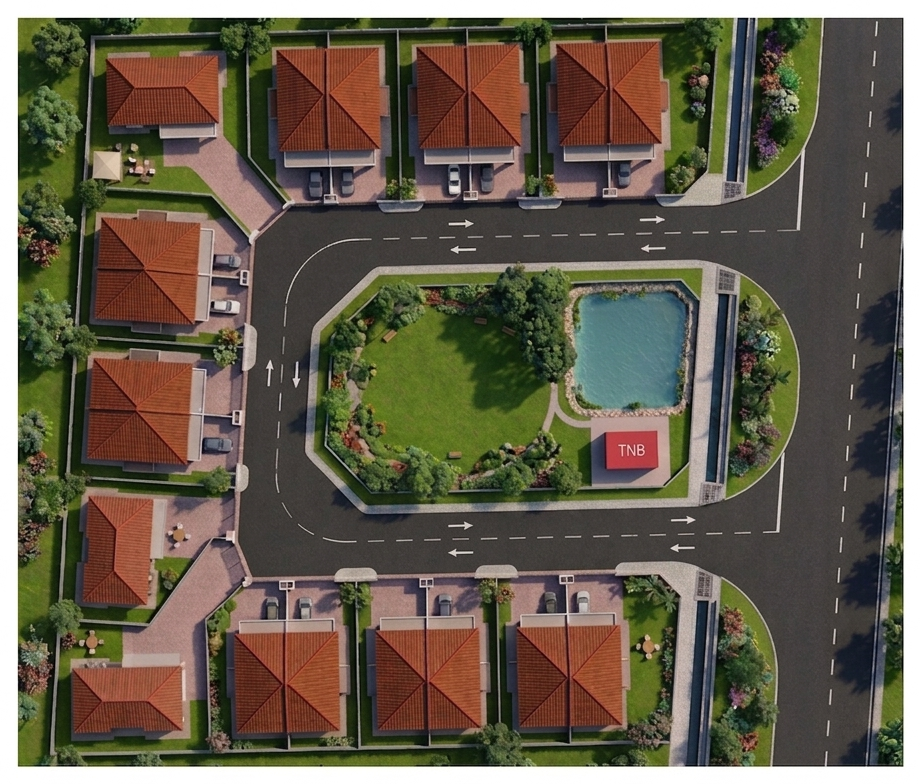
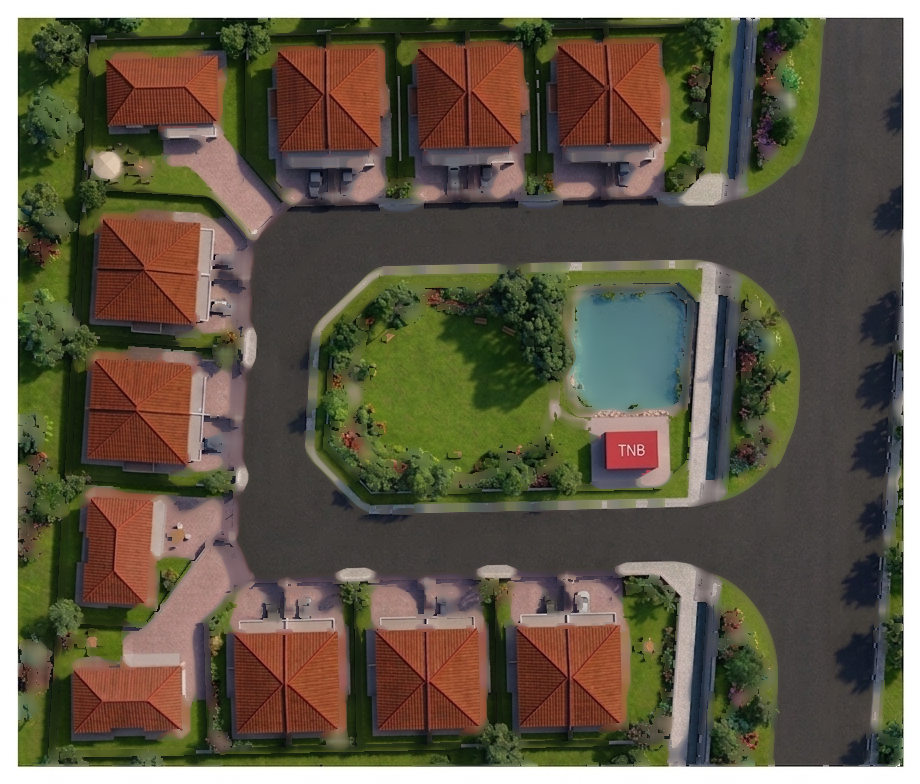
Impressive pass: aerial-led hero, kill dead space, clean aerial, visible topo
Hero now leads with the estate aerial render (split: headline+CTAs left, big aerial right, spec strip full-width below) instead of text on blank paper. Removed the duplicate aerial from the Estate section (moved #site anchor onto the notes). Tightened section padding (clamp 80-160 to 52-96), header margins and philosophy rows site-wide. Painted the white road-direction arrows and lane dividers off the aerial render (PIL median-fill). Boosted topo-flow contour opacity so the background reads; removed the floating pencil spot-marks. Aerial preloaded as LCP.

diff --git a/index.html b/index.html
@@ -46,6 +46,7 @@
 <meta name="twitter:image:alt" content="Panthera Bertam, bungalow artist's impression">
 
 <!-- Performance: preload critical above-the-fold assets -->
+<link rel="preload" as="image" href="assets/site-render-aerial.png?v=5" fetchpriority="high">
 <link rel="preload" as="image" href="assets/panthera-logo-full.png">
 
 <!-- Fonts -->
@@ -57,7 +58,7 @@
 <link rel="stylesheet" href="https://unpkg.com/leaflet@1.9.4/dist/leaflet.css" integrity="sha256-p4NxAoJBhIIN+hmNHrzRCf9tD/miZyoHS5obTRR9BMY=" crossorigin="">
 <script src="https://unpkg.com/leaflet@1.9.4/dist/leaflet.js" integrity="sha256-20nQCchB9co0qIjJZRGuk2/Z9VM+kNiyxNV1lvTlZBo=" crossorigin="" defer></script>
 
-<link rel="stylesheet" href="styles.css?v=70">
+<link rel="stylesheet" href="styles.css?v=71">
 
 <!-- Structured data for Google rich results -->
 <script type="application/ld+json">
@@ -296,32 +297,39 @@
 <!-- ─── HERO ──────────────────────────────────── -->
 <section class="hero hero--paper" data-screen-label="01 Hero">
   <div class="wrap hero-inner">
-    <div class="hero-copy" data-reveal>
-      <div class="eyebrow" data-i18n="hero.eyebrow">Pre-launch · Bertam, Seberang Perai Utara</div>
-      <h1 class="display">
-        <span data-i18n="hero.h1.a">Every home</span><br>
-        <span class="terra-mark" data-i18n="hero.h1.b">opens to the green.</span>
-      </h1>
-      <p class="lede" data-i18n="hero.lede">An intimate enclave of nineteen freehold homes, all facing a shared green of more than 700 m². Floor-to-ceiling glass and full-width sliding doors fold the park into the living room. A calm, private address on the mainland's quiet edge, just as it begins to rise.</p>
+    <div class="hero-split">
+      <div class="hero-copy" data-reveal>
+        <div class="eyebrow" data-i18n="hero.eyebrow">Pre-launch · Bertam, Seberang Perai Utara</div>
+        <h1 class="display">
+          <span data-i18n="hero.h1.a">Every home</span><br>
+          <span class="terra-mark" data-i18n="hero.h1.b">opens to the green.</span>
+        </h1>
+        <p class="lede" data-i18n="hero.lede">An intimate enclave of nineteen freehold homes, all facing a shared green of more than 700 m². Floor-to-ceiling glass and full-width sliding doors fold the park into the living room. A calm, private address on the mainland's quiet edge, just as it begins to rise.</p>
 
-      <div class="hero-cta">
-        <a href="#register" class="btn btn-primary">
-          <span data-i18n="hero.cta.primary">Register your interest</span>
-          <span class="arrow" aria-hidden="true">→</span>
-        </a>
-        <a href="https://wa.me/60175981858?text=Hi%20Panthera%20Bertam%2C%20I'd%20like%20to%20know%20more." target="_blank" rel="noopener" class="btn btn-wa">
-          <span data-i18n="hero.cta.wa">WhatsApp Sales</span>
-          <span class="arrow" aria-hidden="true">↗</span>
-        </a>
+        <div class="hero-cta">
+          <a href="#register" class="btn btn-primary">
+            <span data-i18n="hero.cta.primary">Register your interest</span>
+            <span class="arrow" aria-hidden="true">→</span>
+          </a>
+          <a href="https://wa.me/60175981858?text=Hi%20Panthera%20Bertam%2C%20I'd%20like%20to%20know%20more." target="_blank" rel="noopener" class="btn btn-wa">
+            <span data-i18n="hero.cta.wa">WhatsApp Sales</span>
+            <span class="arrow" aria-hidden="true">↗</span>
+          </a>
+        </div>
       </div>
 
-      <ul class="hero-specs" aria-label="At a glance">
-        <li><span class="v" data-i18n="hero.f1.v">RM 610k</span><span class="k" data-i18n="hero.f1.k">from</span></li>
-        <li><span class="v" data-i18n="hero.f2.v">Freehold</span><span class="k" data-i18n="hero.f2.k">tenure</span></li>
-        <li><span class="v" data-i18n="hero.f3.v">19</span><span class="k" data-i18n="hero.f3.k">homes</span></li>
-        <li><span class="v" data-i18n="hero.f4.v">5 min</span><span class="k" data-i18n="hero.f4.k">to Tech Park</span></li>
-      </ul>
+      <figure class="hero-art" data-reveal>
+        <img src="assets/site-render-aerial.png?v=5" alt="Aerial view of Panthera Bertam, nineteen homes around the shared central green and pond" fetchpriority="high">
+        <figcaption class="mono" data-i18n="site.aerial.l">Artist's impression · aerial view from north</figcaption>
+      </figure>
     </div>
+
+    <ul class="hero-specs" aria-label="At a glance">
+      <li><span class="v" data-i18n="hero.f1.v">RM 610k</span><span class="k" data-i18n="hero.f1.k">from</span></li>
+      <li><span class="v" data-i18n="hero.f2.v">Freehold</span><span class="k" data-i18n="hero.f2.k">tenure</span></li>
+      <li><span class="v" data-i18n="hero.f3.v">19</span><span class="k" data-i18n="hero.f3.k">homes</span></li>
+      <li><span class="v" data-i18n="hero.f4.v">5 min</span><span class="k" data-i18n="hero.f4.k">to Tech Park</span></li>
+    </ul>
   </div>
 </section>
 
@@ -360,16 +368,7 @@
       </div>
     </div>
 
-    <!-- Site plan, folded into the estate story as one continuous flow -->
-    <figure class="site-aerial estate-aerial" id="site" data-reveal>
-      <img src="assets/site-render-aerial.png?v=4" alt="Panthera Bertam, aerial view of the estate with 19 homes around the central green and pond" loading="lazy">
-      <figcaption>
-        <span data-i18n="site.aerial.l">Artist's impression · aerial view from north</span>
-        <span data-i18n="site.aerial.r">19 homes · over 700 m² central green · 298 m² retention pond</span>
-      </figcaption>
-    </figure>
-
-    <div class="site-grid site-grid--notes-only">
+    <div class="site-grid site-grid--notes-only" id="site">
       <div class="site-notes" data-reveal>
         <div class="note">
           <div class="h" data-i18n="site.note1.h">Central green</div>
@@ -1417,6 +1416,6 @@
 </div>
 
 <script src="app.js?v=67"></script>
-<script src="topo-flow.js?v=1"></script>
+<script src="topo-flow.js?v=2"></script>
 </body>
 </html>

diff --git a/styles.css b/styles.css
@@ -241,7 +241,7 @@ input, textarea, select { font: inherit; color: inherit; }
 }
 section{ position: relative; }
 .section{
-  padding: clamp(80px, 10vw, 160px) 0;
+  padding: clamp(52px, 6vw, 96px) 0;
   border-top: 1px solid var(--rule-soft);
 }
 
@@ -304,7 +304,7 @@ section{ position: relative; }
 
 .hd{
   display: flex; align-items: baseline; justify-content: space-between;
-  gap: 24px; margin-bottom: clamp(40px, 5vw, 72px);
+  gap: 24px; margin-bottom: clamp(22px, 2.6vw, 40px);
   border-bottom: 1px solid var(--rule-soft);
   padding-bottom: 18px;
   flex-wrap: wrap;
@@ -540,34 +540,36 @@ footer{ padding-bottom: 60px; }
 .btn-cream{ background: var(--cream); color: var(--ink); }
 .btn-cream:hover{ background: white; }
 
-/* ── Hero ────────────────────────────────────── */
-/* Drafting-sheet hero: the live paper + moving contours show through; the
-   headline and a spec strip sit on it. */
+/* ── Hero (the estate aerial leads) ──────────── */
 .hero{
   position: relative; overflow: hidden;
-  min-height: min(86vh, 820px);
-  display: flex; align-items: center;
-  padding: clamp(96px, 14vh, 160px) 0 clamp(56px, 8vw, 110px);
+  padding: clamp(60px, 8vh, 104px) 0 clamp(40px, 5vw, 72px);
 }
 .hero-inner{ position: relative; z-index: 2; width: 100%; }
-.hero-copy{ max-width: 760px; }
-/* a faint pencil registration bracket at the sheet's top-left, drawn in CSS */
-.hero::before{
-  content: ""; position: absolute; z-index: 1; pointer-events: none;
-  left: calc(var(--gutter) - 18px); top: clamp(72px, 11vh, 128px);
-  width: 26px; height: 26px;
-  border-left: 1px solid rgba(40,33,28,0.32);
-  border-top: 1px solid rgba(40,33,28,0.32);
+.hero-split{
+  display: grid; grid-template-columns: 1.02fr 0.98fr;
+  gap: clamp(32px, 4.5vw, 76px); align-items: center;
+}
+.hero-copy{ max-width: 620px; }
+.hero-art{ margin: 0; position: relative; }
+.hero-art img{
+  width: 100%; height: auto; display: block;
+  border-radius: 6px; border: 1px solid var(--rule-soft);
+  box-shadow: 0 34px 74px -34px rgba(28,23,20,0.5);
+}
+.hero-art figcaption{
+  margin-top: 12px;
+  font-size: 10px; letter-spacing: 0.2em; text-transform: uppercase;
+  color: var(--text-mute);
 }
 .hero-specs{
-  list-style: none; margin: clamp(36px, 5vw, 56px) 0 0; padding: 16px 0 0;
+  list-style: none; margin: clamp(34px, 4.5vw, 54px) 0 0; padding: 18px 0 0;
   display: flex; flex-wrap: wrap; gap: 0;
   border-top: 1px solid var(--rule);
-  max-width: 680px;
 }
 .hero-specs li{
   display: flex; flex-direction: column; gap: 3px;
-  padding: 4px 28px 4px 0; margin-right: 28px;
+  padding: 4px 36px 4px 0; margin-right: 36px;
   border-right: 1px solid var(--rule-soft);
 }
 .hero-specs li:last-child{ border-right: 0; margin-right: 0; }
@@ -579,8 +581,11 @@ footer{ padding-bottom: 60px; }
   font-family: var(--mono); font-size: 10px; letter-spacing: 0.18em;
   text-transform: uppercase; color: var(--text-mute);
 }
+@media (max-width: 900px){
+  .hero-split{ grid-template-columns: 1fr; gap: clamp(28px, 5vw, 40px); }
+  .hero-copy{ max-width: none; }
+}
 @media (max-width: 720px){
-  .hero{ min-height: 78vh; }
   .hero-specs li{ padding-right: 18px; margin-right: 18px; }
 }
 
@@ -3851,8 +3856,8 @@ body:not(.lang-zh) .zh-only-inline{ display: none; }
 .phil-row{
   display: grid;
   grid-template-columns: 1.1fr 1fr;
-  gap: 60px;
-  padding: 48px 0;
+  gap: 48px;
+  padding: 32px 0;
   border-bottom: 1px solid var(--rule-soft);
   align-items: start;
 }

diff --git a/topo-flow.js b/topo-flow.js
@@ -203,14 +203,13 @@
     for (var i = 0; i < LEVELS.length; i++) {
       var lv = LEVELS[i];
       var emphasis = (i % 3 === 0);                 // every 3rd = index line
-      g.lineWidth = emphasis ? 1.25 : 0.85;
+      g.lineWidth = emphasis ? 1.5 : 1.0;
       var near = 1 - Math.min(Math.abs(lv) / 1.9, 1);
       var col = emphasis ? TERRA : INK;
-      var alpha = (emphasis ? 0.22 : 0.12) * (0.5 + 0.5 * near);
+      var alpha = (emphasis ? 0.38 : 0.20) * (0.55 + 0.45 * near);
       g.strokeStyle = 'rgba(' + col + ',' + alpha.toFixed(3) + ')';
       marchLevel(lv);
     }
-    drawMarks();
   }
 
   // Blit the buffer to the visible canvas with a scroll-driven offset.